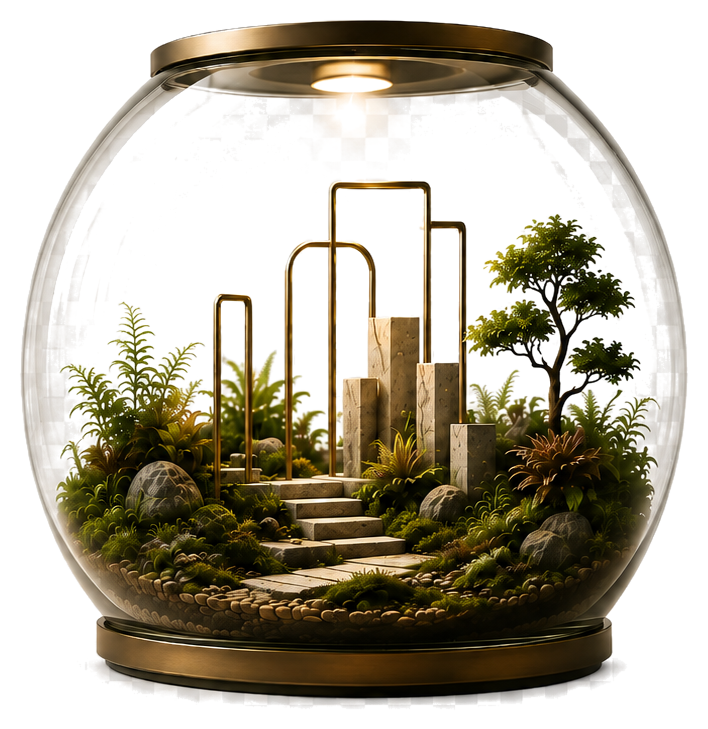
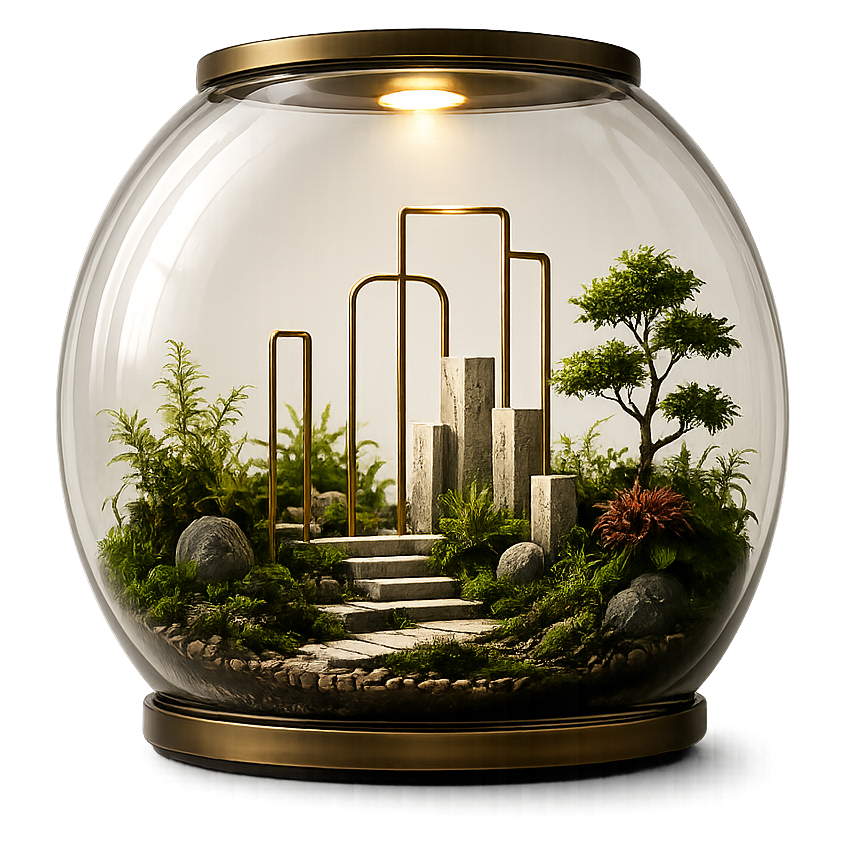
Hero: use client-provided terrarium element on scene backdrop; homepage polish
- Hero background = terrarium_background_only.png; terrarium = provided
  transparent element cropped to the vessel (natural, no cut-out artifacts)
- Remove "Discover the Terrarium Framework" label and refine the affiliate
  caption (copper rule + clean single line, no sticker look)
- Remove homepage "Why Regis and Savoy" teaser section
- Our Approach: drop flower icons, headings now copper
- Remove blue succulent from the ecosystem tagline panel

Claude-Session: https://claude.ai/code/session_011wAEdugwYDvnLwQP734EuE

diff --git a/src/app/page.tsx b/src/app/page.tsx
@@ -11,18 +11,15 @@ import {
   brand,
   contact,
   servicesIntro,
-  whyTerrarium,
   services,
 } from "@/lib/content";
 
 // scroll-flip background stops
 const LINEN = "#e3d3bf";
-const HONEY = "#e8d8c4";
 const EXPERTISE_GREEN = "#1e3326";
 const SAGE = "#c5d4c2";
 const FOREST = "#223428";
 
-const WHY_HREF = "/why-regis-and-savoy";
 const pe = services.find((s) => s.id === "private-equity")!;
 
 export default function Home() {
@@ -30,42 +27,6 @@ export default function Home() {
     <>
       <ScrollBg />
       <Hero />
-
-      {/* Why Regis and Savoy — the Terrarium Framework teaser */}
-      <section data-bg={HONEY} className="relative overflow-hidden py-32">
-        <img
-          src="/images/succulents/green.png"
-          alt=""
-          aria-hidden
-          className="pointer-events-none absolute right-[6vw] top-12 w-14 opacity-90 drop-shadow-[0_16px_24px_rgba(34,52,40,0.25)] md:w-20"
-        />
-        <div className="mx-auto grid max-w-[1400px] gap-16 px-[var(--spacing-gutter)] lg:grid-cols-[0.8fr_1.2fr]">
-          <Reveal>
-            <p className="eyebrow mb-6 text-copper font-medium">
-              {whyTerrarium.eyebrow}
-            </p>
-            <p className="font-[var(--font-display)] text-2xl italic text-copper">
-              {brand.tagline}
-            </p>
-          </Reveal>
-          <Reveal delay={0.1}>
-            <p className="display-md text-inkg">
-              The Terrarium Framework: an integrated approach to corporate
-              advisory.
-            </p>
-            <p className="mt-8 max-w-2xl text-lg leading-relaxed text-inkg-soft">
-              {whyTerrarium.intro}
-            </p>
-            <Link
-              href={WHY_HREF}
-              className="group mt-10 inline-flex items-center gap-3 text-sm uppercase tracking-[0.16em] text-inkg transition-colors duration-500 hover:text-copper"
-            >
-              Why Regis and Savoy
-              <ArrowIcon className="transition-transform duration-500 group-hover:translate-x-1.5" />
-            </Link>
-          </Reveal>
-        </div>
-      </section>
 
       {/* Marquee band */}
       <section
@@ -161,12 +122,6 @@ export default function Home() {
         data-bg={FOREST}
         className="relative overflow-hidden bg-forest py-36 text-ivory-2"
       >
-        <img
-          src="/images/succulents/teal.png"
-          alt=""
-          aria-hidden
-          className="pointer-events-none absolute bottom-8 left-[6vw] w-16 opacity-95 drop-shadow-[0_18px_28px_rgba(0,0,0,0.35)] md:w-20"
-        />
         <div className="relative mx-auto max-w-[1400px] px-[var(--spacing-gutter)] text-center">
           <Reveal>
             <p className="text-antique-gradient font-[var(--font-display)] text-[clamp(2rem,5.5vw,4.6rem)] italic leading-[1.08]">

diff --git a/src/components/TerrariumEmblem.tsx b/src/components/TerrariumEmblem.tsx
@@ -41,11 +41,11 @@ export default function TerrariumEmblem({ href }: { href: string }) {
         variants={container}
         className="relative w-full flex-1"
       >
-        {/* Transparent terrarium element, layered over the section backdrop */}
+        {/* Terrarium element, composed over the matching scene backdrop */}
         <img
           src="/images/terrarium-element.png"
           alt="A curated glass terrarium — the Regis and Savoy corporate ecosystem"
-          className="absolute inset-0 h-full w-full object-contain drop-shadow-[0_30px_50px_rgba(80,60,30,0.28)] transition-transform duration-700 group-hover:scale-[1.03]"
+          className="absolute inset-0 h-full w-full object-contain drop-shadow-[0_26px_44px_rgba(80,60,30,0.26)] transition-transform duration-700 group-hover:scale-[1.03]"
         />
         {/* slow light reflection sweeping across the glass */}
         <span className="glass-sheen" />
@@ -76,15 +76,6 @@ export default function TerrariumEmblem({ href }: { href: string }) {
           </motion.span>
         ))}
       </motion.div>
-
-      {/* Prompt to discover the framework — sits free, below the vessel */}
-      <span className="mt-5 flex items-center gap-2 text-[0.68rem] font-semibold uppercase tracking-[0.24em] text-copper-dark">
-        <span className="h-px w-6 bg-copper/60" />
-        <span className="transition-colors duration-300 group-hover:text-copper">
-          Discover the Terrarium Framework
-        </span>
-        <span className="h-px w-6 bg-copper/60" />
-      </span>
     </Link>
   );
 }

diff --git a/src/components/sections/Hero.tsx b/src/components/sections/Hero.tsx
@@ -14,14 +14,13 @@ const EASE = [0.16, 1, 0.3, 1] as const;
 export default function Hero() {
   return (
     <section
-      data-bg="#e9ddc8"
+      data-bg="#e6d6c2"
       className="relative flex min-h-[100svh] flex-col overflow-hidden bg-cover bg-center bg-no-repeat pb-12 pt-32"
       style={{
-        backgroundColor: "#e9ddc8",
+        backgroundColor: "#e6d6c2",
         backgroundImage: "url('/images/terrarium-bg.png')",
       }}
     >
-
       <div className="relative mx-auto grid w-full max-w-[1400px] flex-1 items-center gap-12 px-[var(--spacing-gutter)] lg:grid-cols-[1.1fr_0.9fr]">
         {/* Copy */}
         <div>
@@ -103,8 +102,12 @@ export default function Hero() {
         transition={{ delay: 1.3, duration: 1 }}
         className="relative mx-auto mt-8 flex w-full max-w-[1400px] items-end justify-between px-[var(--spacing-gutter)]"
       >
-        <p className="whitespace-nowrap text-xs uppercase tracking-[0.2em] text-sage">
-          An affiliate of <span className="text-bronze">{brand.parent}</span>
+        <p className="flex items-center gap-3 whitespace-nowrap text-[0.68rem] uppercase tracking-[0.22em] text-inkg/55">
+          <span className="h-px w-8 shrink-0 bg-copper/45" />
+          <span>
+            An affiliate of{" "}
+            <span className="font-medium text-copper-dark">{brand.parent}</span>
+          </span>
         </p>
         <span className="hidden flex-col items-center gap-2 text-[0.62rem] uppercase tracking-[0.3em] text-sage sm:flex">
           Scroll

diff --git a/src/components/sections/Lifecycle.tsx b/src/components/sections/Lifecycle.tsx
@@ -6,9 +6,6 @@ import { Reveal } from "@/components/motion/Reveal";
 
 const EASE = [0.16, 1, 0.3, 1] as const;
 
-// A botanical accent per lifecycle stage — replaces the old numbering.
-const STAGE_ICONS = ["green.png", "teal.png", "lilac.png", "purple.png", "redgreen.png"];
-
 export default function Lifecycle() {
   return (
     <section id="approach" data-bg="#efe1c6" className="scroll-mt-24 py-28">
@@ -30,13 +27,7 @@ export default function Lifecycle() {
               transition={{ duration: 0.7, ease: EASE, delay: i * 0.08 }}
               className="group relative bg-ivory-2 p-8 transition-colors duration-500 hover:bg-forest"
             >
-              <img
-                src={`/images/succulents/${STAGE_ICONS[i % STAGE_ICONS.length]}`}
-                alt=""
-                aria-hidden
-                className="h-10 w-10 object-contain drop-shadow-[0_8px_14px_rgba(34,52,40,0.25)]"
-              />
-              <h3 className="mt-6 font-[var(--font-display)] text-2xl text-inkg transition-colors duration-500 group-hover:text-ivory-2">
+              <h3 className="font-[var(--font-display)] text-2xl text-copper transition-colors duration-500 group-hover:text-ivory-2">
                 {stage.title}
               </h3>
               <p className="mt-3 text-sm leading-relaxed text-sage transition-colors duration-500 group-hover:text-ivory-2/60">
